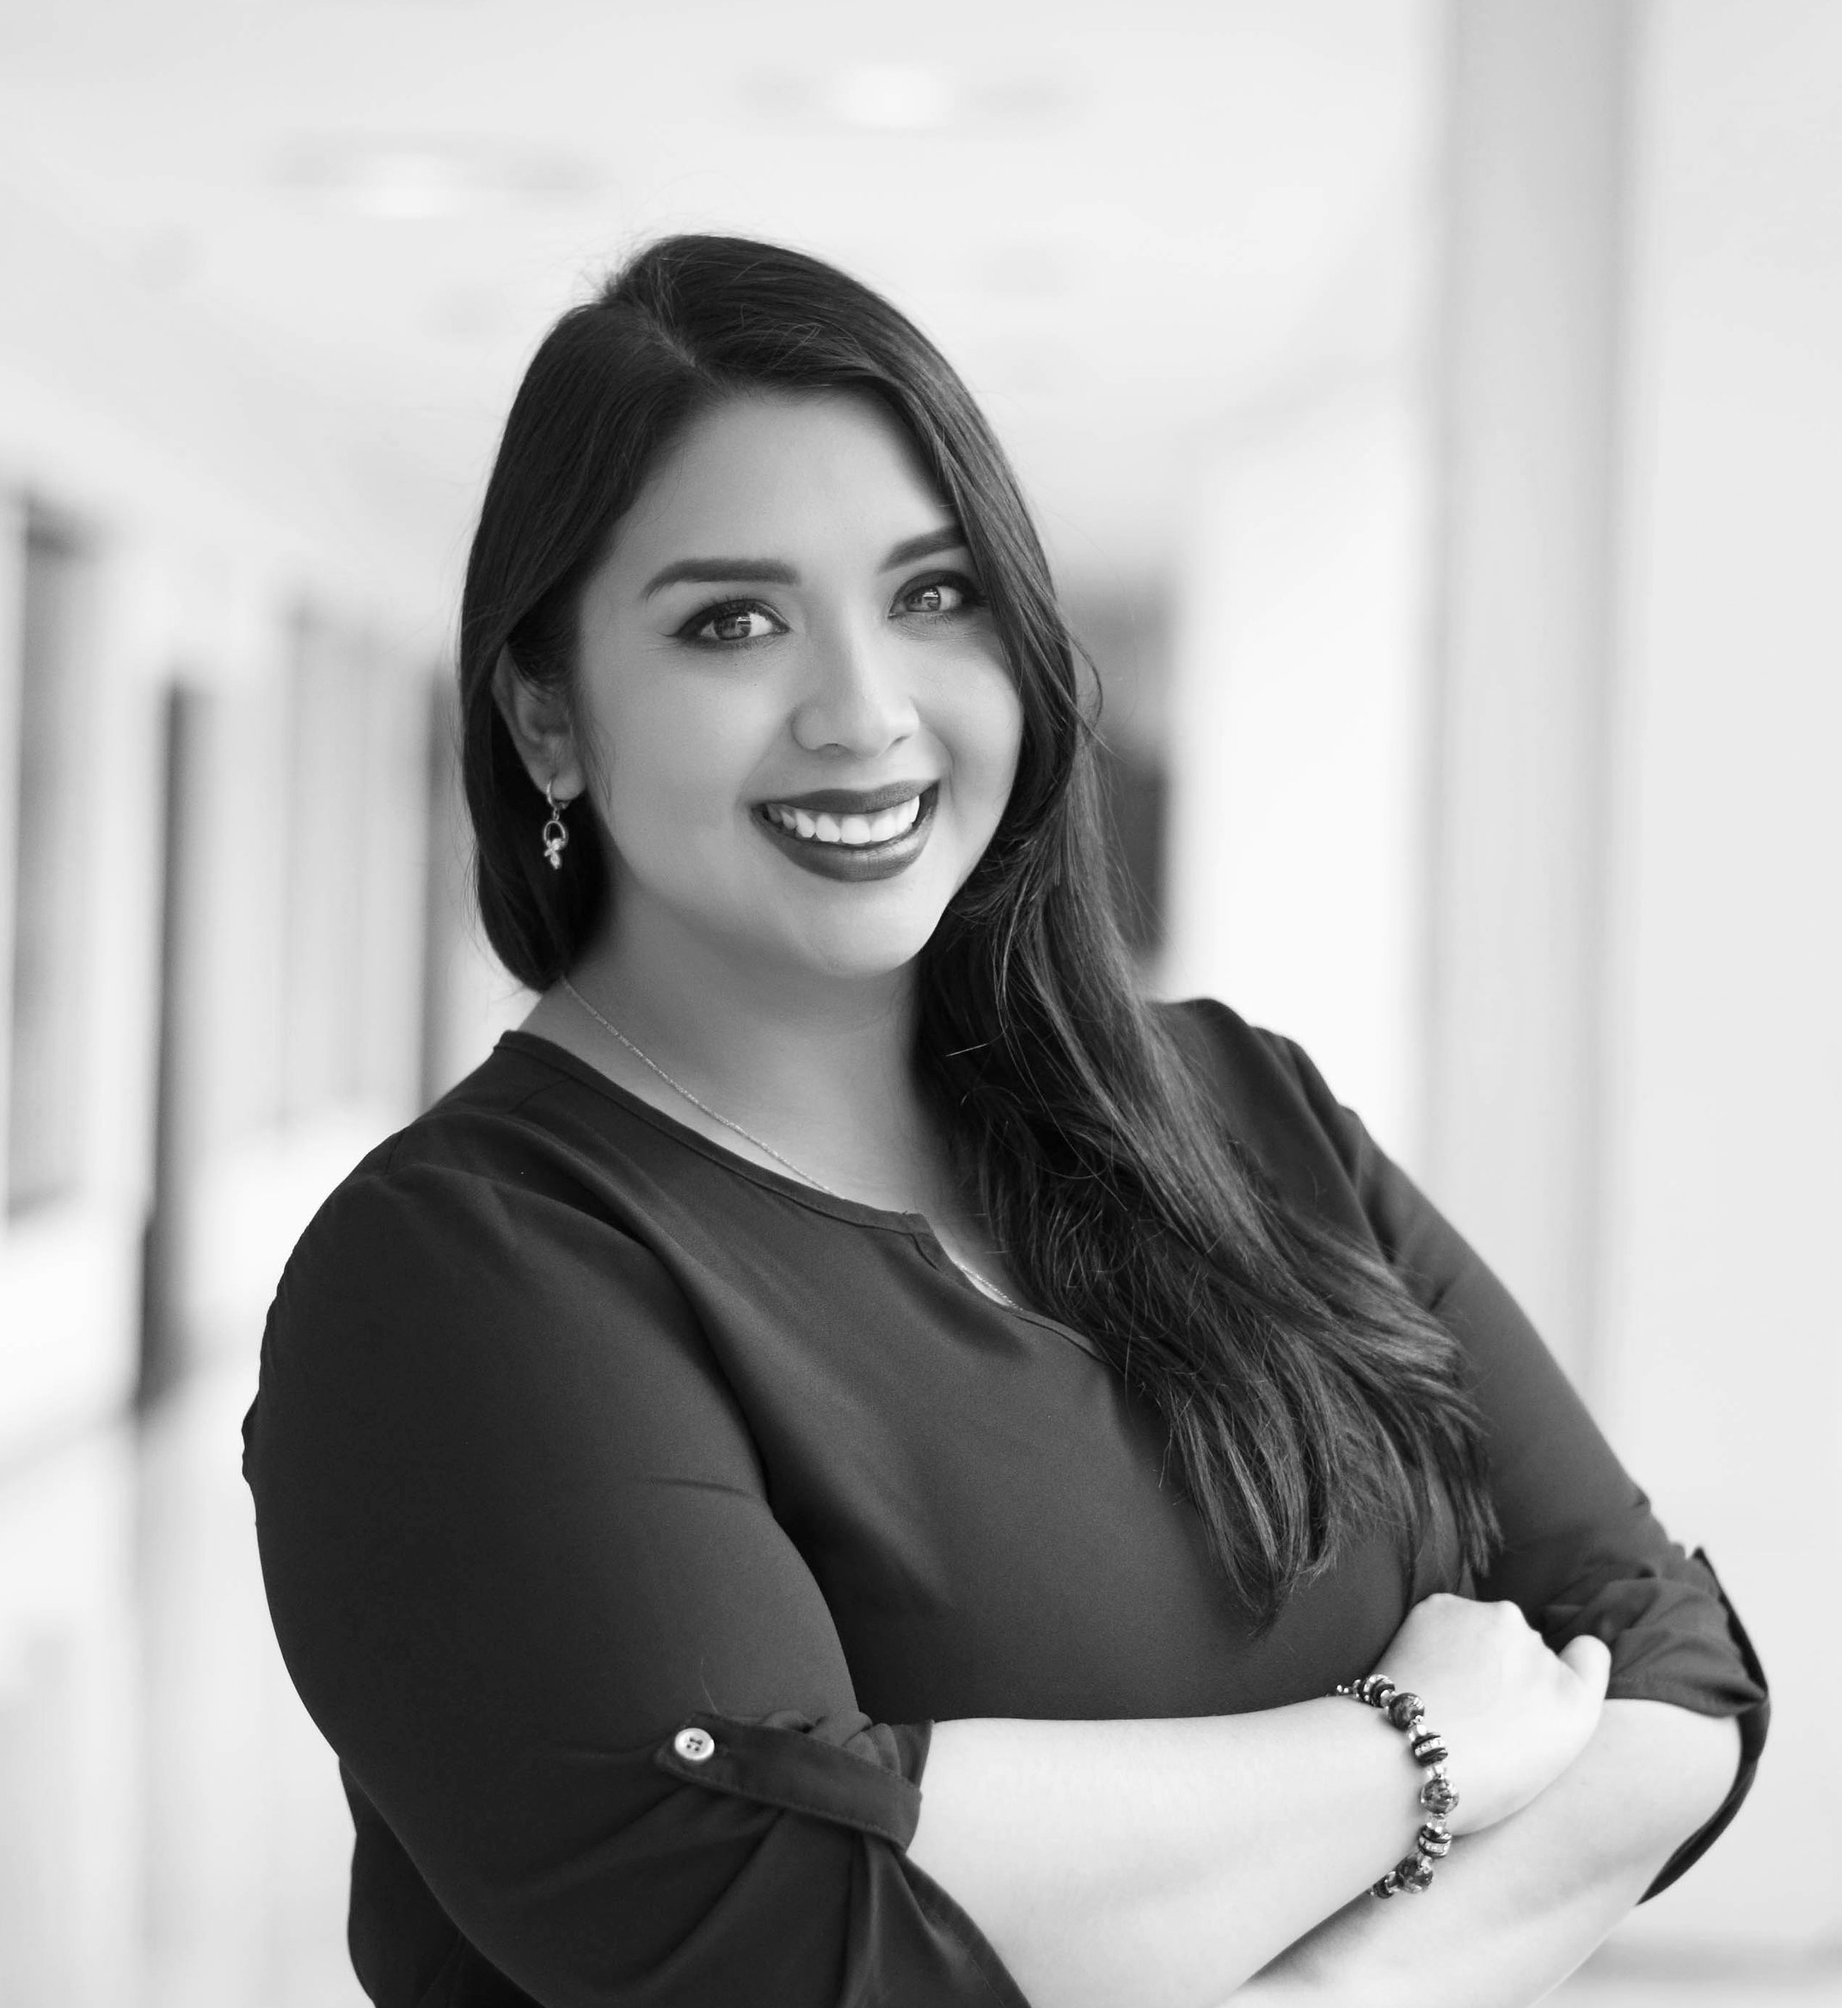
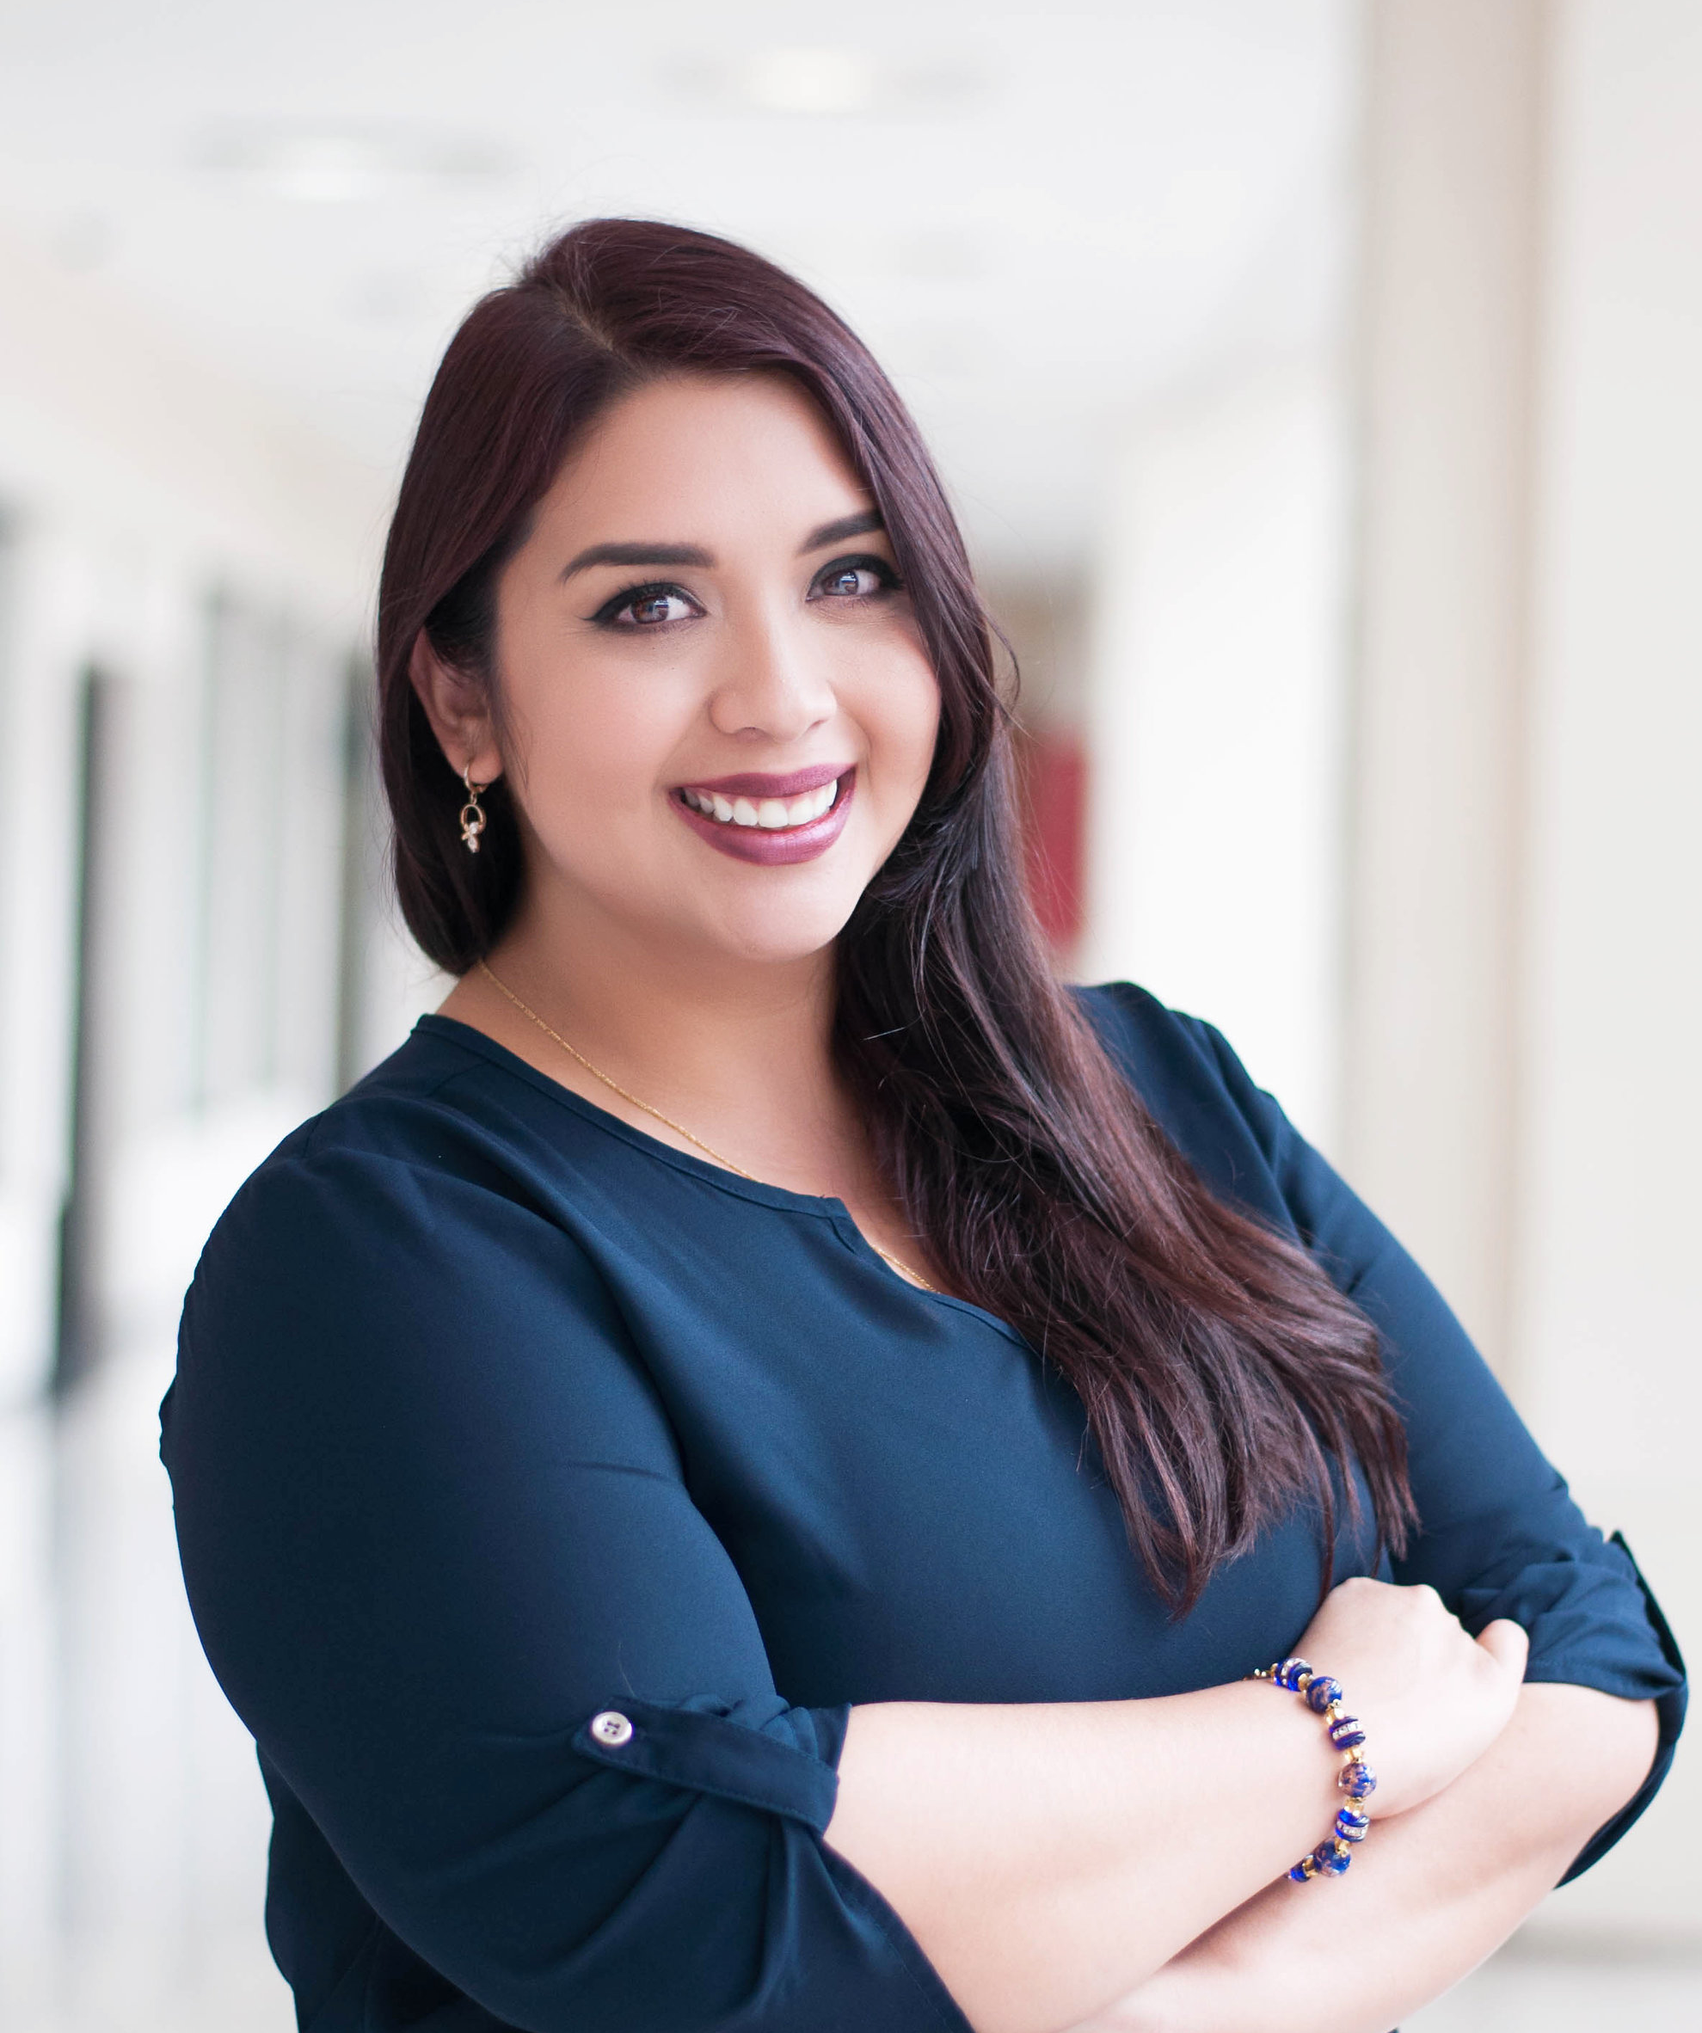
preparando primer alcance para presentacion

diff --git a/index.html b/index.html
@@ -9,8 +9,7 @@
     <!-- Bootstrap CSS -->
     <link rel="stylesheet" href="https://stackpath.bootstrapcdn.com/bootstrap/4.1.3/css/bootstrap.min.css" integrity="sha384-MCw98/SFnGE8fJT3GXwEOngsV7Zt27NXFoaoApmYm81iuXoPkFOJwJ8ERdknLPMO"
         crossorigin="anonymous">
-    <!-- <link rel="stylesheet" href="https://cdn.jsdelivr.net/npm/animate.css@3.5.2/animate.min.css"> -->
-    
+    <link rel="stylesheet" href="https://cdn.jsdelivr.net/npm/animate.css@3.5.2/animate.min.css">
     <link href="https://fonts.googleapis.com/css?family=Varela+Round" rel="stylesheet">
     <link href="https://fonts.googleapis.com/css?family=Nunito:200,200i,300,300i,400,400i,600,600i,700,700i,800,800i,900,900i"
         rel="stylesheet">
@@ -41,33 +40,113 @@
                 </li>
             </ul>
         </div>
-    </nav> 
+    </nav>
     <!-- header -->
-        <header class="container masthead d-flex h-100 align-items-center">
-            <div class="mx-auto text-center">
-                <h1 class="mx-auto my-0 text-uppercase animated flash delay-2s">Karla Martínez</h1>
-                <h2 class="text-white-50 mx-auto mt-2 mb-5">Portafolio</h2>
-                <a href="#about" class="btn btn-primary js-scroll-trigger animated infinite pulse delay-2s">Comenzar</a>
-            </div>
-        </header>
+    <header class="container-fluid masthead d-flex h-100 align-items-center">
+        <div class="mx-auto text-center">
+            <h1 class="mx-auto my-0 text-uppercase animated flash delay-5s">Karla Martínez</h1>
+            <h3 class="text-white-50 mx-auto mt-2 mb-5">Portafolio</h3>
+            <a href="#about" class="btn btn-primary js-scroll-trigger animated infinite pulse delay-2s">Comenzar</a>
+        </div>
+    </header>
     <!-- About Section -->
-    <section id="about" class="container about-section text-center">
-            <div class="row">
-                <div class="col-12 col-md-6 mx-auto">
-                    <img id="about-picture" src="assets/image/karla.png" class="img-fluid" alt="">
+    <section id="about" class="container-fluid about-section text-center">
+        <div class="row">
+            <div class="col-12 col-md-6 mx-auto">
+                <img id="about-picture" src="assets/image/karla.png" class="img-fluid animated bounceInUp" alt="">
+            </div>
+            <div class="col-12 col-md-6 mx-auto">
+                <h2 class="text-white mb-4 animated bounceInRight delay-1s">Acerca de mí.</h2>
+                <p class="text-white-50"> Me encanta la Tecnologia y todo lo que gravita en torno a ella. Siento fascinación
+                    por todo lo que se puede hacer con el uso de ésta. Actualmente, me desempeño como desarrolladora de páginas
+                    web "Lorem ipsum dolor sit amet, consectetur adipiscing elit, sed do eiusmod tempor incididunt ut labore
+                    et dolore magna aliqua. Ut enim ad minim veniam, quis nostrud exercitation ullamco laboris nisi ut aliquip
+                    ex ea commodo consequat. Duis aute irure dolor in reprehenderit in voluptate velit esse cillum dolore
+                    eu fugiat nulla pariatur. Excepteur sint occaecat cupidatat non proident, sunt in culpa qui officia deserunt
+                    mollit anim id est laborum."
+
+
+                    <a class="animated infinite pulse delay-2s" id="github-link" href="https://github.com/KarlaMartinez17">Github</a></p>
+            </div>
+        </div>
+    </section>
+    <!-- Projects Section -->
+    <section id="projects" class="projects-section bg-light">
+        <div class="container">
+            <div class="row justify-content-center mb-5 mb-lg-0">
+                <div class="col-lg-6">
+                    <img class="img-fluid" src="assets/image/proyecto1.png" alt="">
                 </div>
-                <div class="col-12 col-md-6 mx-auto">
-                    <h2 class="text-white mb-4 animated bounceInRight delay-1s">Acerca de mí.</h2>
-                    <p class="text-white-50"> Me encanta la Tecnologia y todo lo que gravita en torno a ella. Siento fascinación
-                        por todo lo que se puede hacer con el uso de ésta. Actualmente, me desempeño como desarrolladora
-                        de páginas web lñkasdldlka sdñañlsdklas kjlkjdlA
-                        KJDKSDHLA SDKÑLKDÑ KDÑLKADÑL AKDÑL JWQDQDODU
-                        LKJFLKD ÑLASDK ÑLKADÑLWK FLKWQJFLKJQWF
-                        KHWDLKWQJDLKJ WQDLJQDWJL KAWDKLJ DLKJWDLK JWDLK KDJLKD
-                         Conoce más acerca de mis proyectos en
-                        <a id="github-link" href="https://github.com/KarlaMartinez17">Github</a></p>
+                <div class="col-lg-6">
+                    <div class="d-flex h-100">
+                        <div class="project-text w-100 my-auto text-center text-lg-left">
+                            <h4 class="text-black-">PROYECTO1</h4>
+                            <p class="mb-0 text-black-50">"Lorem ipsum dolor sit amet, consectetur adipiscing elit, sed do eiusmod tempor incididunt ut labore
+                                et dolore magna aliqua. Ut enim ad minim veniam, quis nostrud exercitation ullamco laboris nisi ut aliquip
+                                ex ea commodo consequat. Duis aute irure dolor in reprehenderit in voluptate velit esse cillum dolore
+                                eu fugiat nulla pariatur. Excepteur sint occaecat cupidatat non proident, sunt in culpa qui officia deserunt
+                                mollit anim id est laborum."</p>
+                            <hr class="d-none d-lg-block mb-0 ml-0">
+                        </div>
+                    </div>
                 </div>
             </div>
+            <div class="row justify-content-center">
+                <div class="col-lg-6">
+                    <img class="img-fluid" src="assets/image/proyecto2.png" alt="">
+                </div>
+                <div class="col-lg-6 order-lg-first">
+                    <div class="d-flex h-100">
+                        <div class="project-text w-100 my-auto text-center text-lg-right">
+                            <h4 class="text-black">PROYECTO2</h4>
+                            <p class="mb-0 text-black-50">"Lorem ipsum dolor sit amet, consectetur adipiscing elit, sed do eiusmod tempor incididunt ut labore
+                                et dolore magna aliqua. Ut enim ad minim veniam, quis nostrud exercitation ullamco laboris nisi ut aliquip
+                                ex ea commodo consequat. Duis aute irure dolor in reprehenderit in voluptate velit esse cillum dolore
+                                eu fugiat nulla pariatur. Excepteur sint occaecat cupidatat non proident, sunt in culpa qui officia deserunt
+                                mollit anim id est laborum."</p>
+                            <hr class="d-none d-lg-block mb-0 mr-0">
+                        </div>
+                    </div>
+                </div>
+            </div>
+            <div class="row justify-content-center mb-5 mb-lg-0">
+                <div class="col-lg-6">
+                    <img class="img-fluid" src="assets/image/proyecto3.png" alt="">
+                </div>
+                <div class="col-lg-6">
+                    <div class="d-flex h-100">
+                        <div class="project-text w-100 my-auto text-center text-lg-left">
+                            <h4 class="text-black">PROYECTO3</h4>
+                            <p class="mb-0 text-black-50">"Lorem ipsum dolor sit amet, consectetur adipiscing elit, sed do eiusmod tempor incididunt ut labore
+                                et dolore magna aliqua. Ut enim ad minim veniam, quis nostrud exercitation ullamco laboris nisi ut aliquip
+                                ex ea commodo consequat. Duis aute irure dolor in reprehenderit in voluptate velit esse cillum dolore
+                                eu fugiat nulla pariatur. Excepteur sint occaecat cupidatat non proident, sunt in culpa qui officia deserunt
+                                mollit anim id est laborum."</p>
+                            <hr class="d-none d-lg-block mb-0 ml-0">
+                        </div>
+                    </div>
+                </div>
+            </div>
+            <div class="row justify-content-center">
+                <div class="col-lg-6">
+                    <img class="img-fluid" src="assets/image/proyecto4.png" alt="">
+                </div>
+                <div class="col-lg-6 order-lg-first">
+                    <div class="d-flex h-100">
+                        <div class="project-text w-100 my-auto text-center text-lg-right">
+                            <h4 class="text-black">Proyecto4</h4>
+                            <p class="mb-0 text-black-50">"Lorem ipsum dolor sit amet, consectetur adipiscing elit, sed do eiusmod tempor incididunt ut labore
+                                et dolore magna aliqua. Ut enim ad minim veniam, quis nostrud exercitation ullamco laboris nisi ut aliquip
+                                ex ea commodo consequat. Duis aute irure dolor in reprehenderit in voluptate velit esse cillum dolore
+                                eu fugiat nulla pariatur. Excepteur sint occaecat cupidatat non proident, sunt in culpa qui officia deserunt
+                                mollit anim id est laborum."</p>
+                            <hr class="d-none d-lg-block mb-0 mr-0">
+                        </div>
+                    </div>
+                </div>
+            </div>
+
+        </div>
     </section>
     <!-- Optional JavaScript -->
     <!-- jQuery first, then Popper.js, then Bootstrap JS -->

diff --git a/css/main.css b/css/main.css
@@ -59,7 +59,8 @@
   } 
 
   .about-section {
-    padding-top: 5rem;
+    padding-top: 10rem;
+    padding-bottom: 5rem;
     background: linear-gradient(to bottom, #161616 0%, rgba(22, 22, 22, 0.9) 75%, rgba(22, 22, 22, 0.8) 100%);
   } 
   
@@ -73,8 +74,11 @@
   #about-picture{
     overflow: hidden;
     width: 50%; 
-    border-radius: 5%;
-  }    
+    border-radius:50%;
+  -webkit-border-radius:50%;
+  box-shadow: 0px 0px 15px 15px #494e63;
+  -webkit-box-shadow: 0px 0px 15px 15px #707186;
+  }
 
 
 
@@ -88,6 +92,19 @@
     font-weight: bolder;
 
   }
+
+  h4{
+    color: #87232f;
+  }
+
+  .img-fluid {
+    filter: grayscale(100%);
+  }
+
+  .img-fluid:hover{
+    filter: none;
+  }
+
 
   @media (min-width: 768px) {
     .masthead h1 {
